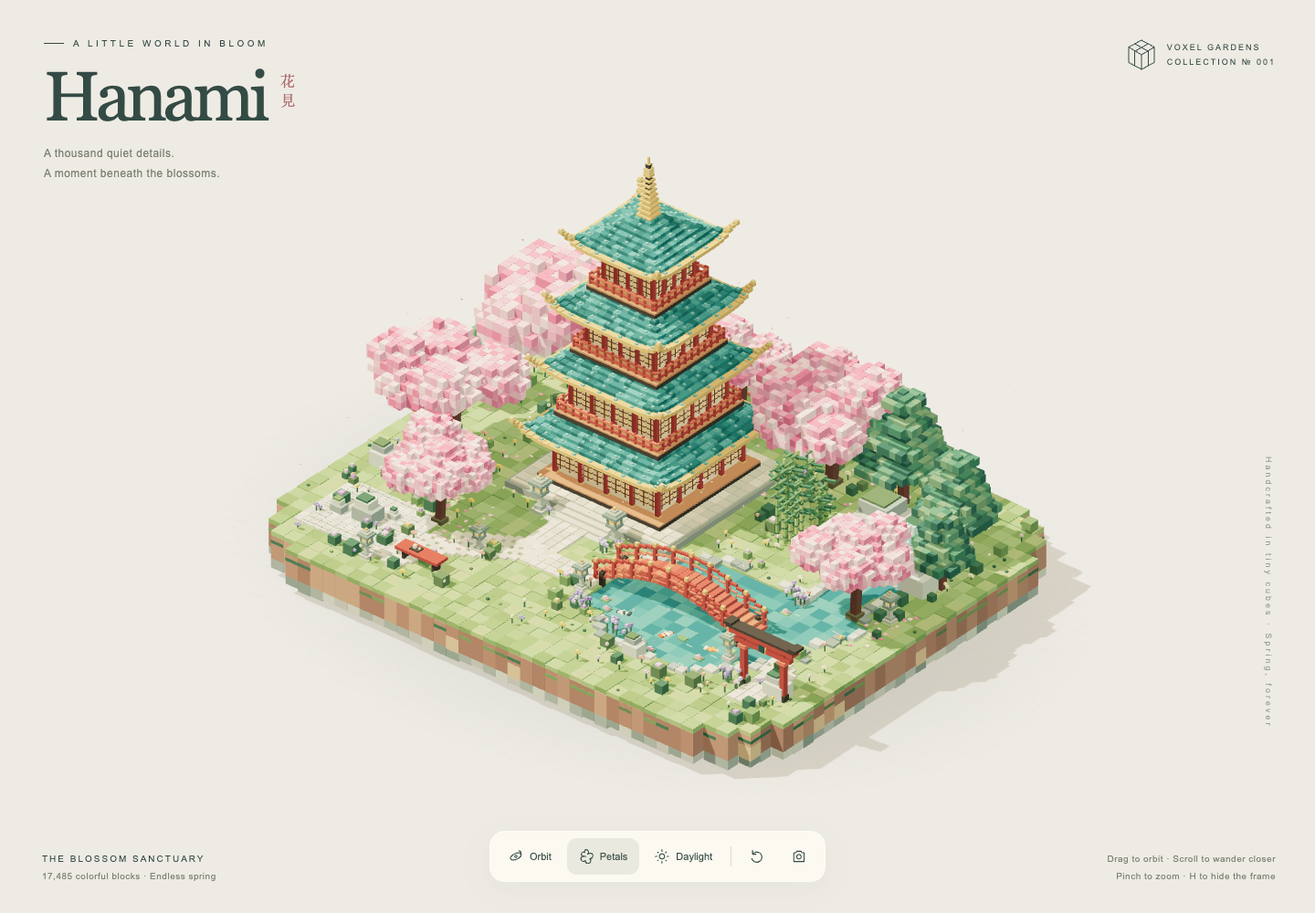
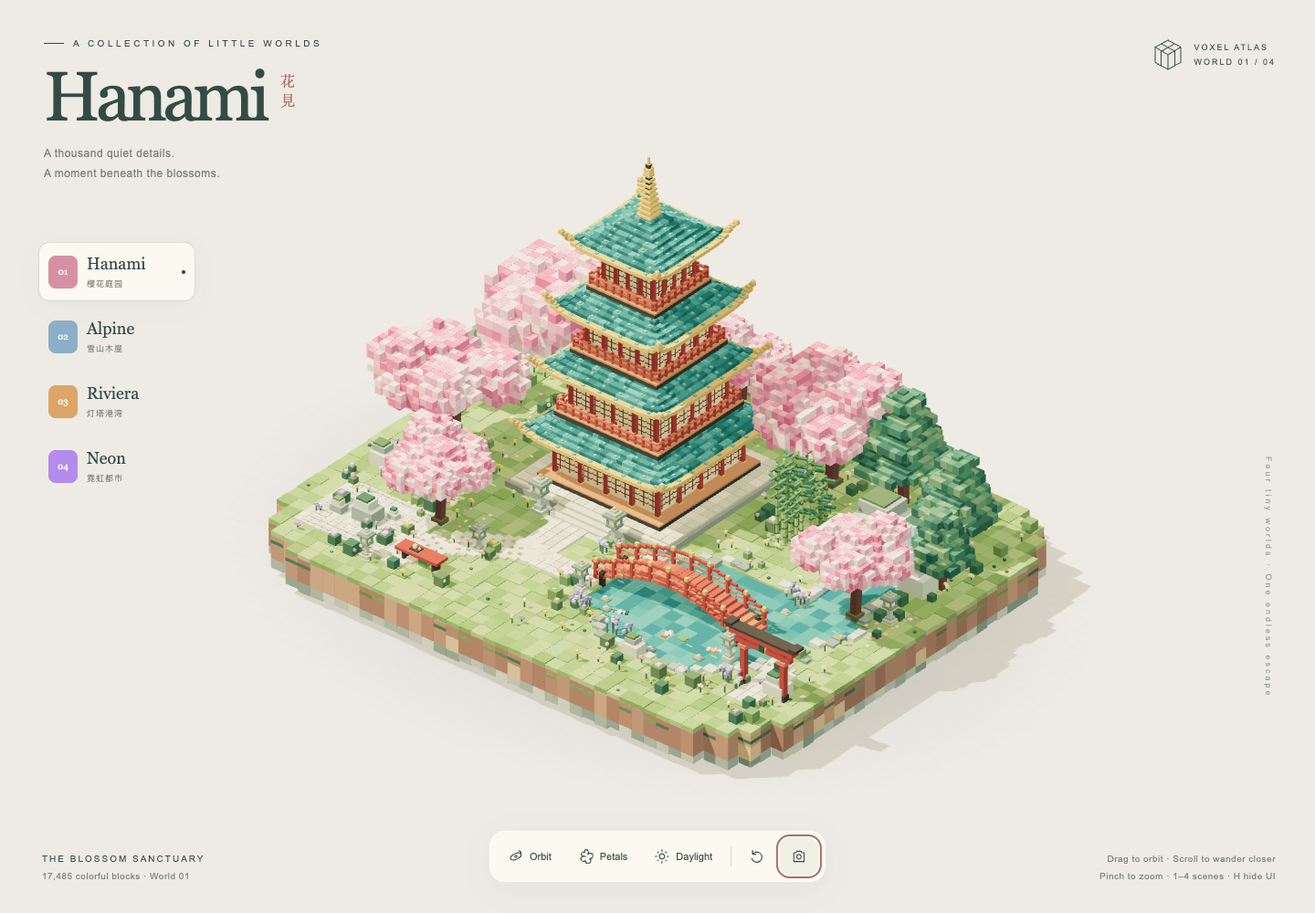
Add Alpine, Riviera and Neon worlds with scene switching

diff --git a/index.html b/index.html
@@ -4,7 +4,7 @@
 <meta charset="utf-8">
 <meta name="viewport" content="width=device-width,initial-scale=1">
 <meta name="theme-color" content="#eee7df">
-<title>Hanami — a little world in bloom</title>
+<title>Hanami — Voxel Atlas</title>
 <style>
 :root{color-scheme:light;--ink:#344b45;--muted:#7b8274;--line:rgba(67,80,67,.18);--glass:rgba(255,253,244,.78)}
 *{box-sizing:border-box}body{margin:0;overflow:hidden;background:#eee7df;color:var(--ink);font-family:Arial,Helvetica,sans-serif;transition:color .7s}canvas{display:block;touch-action:none;outline:none;cursor:grab}canvas:active{cursor:grabbing}canvas:focus-visible{outline:2px solid #a56363;outline-offset:-5px}
@@ -13,14 +13,19 @@ footer{position:absolute;left:46px;bottom:31px;font-size:10px;line-height:1.9;le
 @media(max-width:850px){header{top:28px;left:25px}h1{font-size:58px}.edition{right:25px;top:29px}.tag{right:23px}footer{left:25px;bottom:23px}.help{right:25px;bottom:23px}.toolbar{bottom:80px}header p{font-size:11px}}
 @media(max-width:520px){h1{font-size:51px;margin-top:15px}.edition{font-size:8px;letter-spacing:1px}.edition svg{display:none}.eyebrow{font-size:8px;letter-spacing:2.5px}.tag{display:none}header p{max-width:170px;font-size:10px}.toolbar{bottom:74px;gap:0;padding:5px}button{padding:12px 10px;gap:5px;font-size:10px}button svg{width:15px}.help{font-size:9px}.help .desktop{display:none}footer{font-size:9px}footer b{font-size:9px}.toast{bottom:134px;white-space:nowrap}}
 @media(prefers-reduced-motion:reduce){*{transition:none!important}}
+
+.scene-selector{position:absolute;top:265px;left:42px;width:172px;display:flex;flex-direction:column;gap:6px;pointer-events:auto}.scene-button{padding:12px 10px;border:1px solid transparent;text-align:left;gap:10px;border-radius:12px}.scene-button[aria-pressed=true]{background:var(--glass);border-color:var(--line);box-shadow:0 6px 24px #31433408}.scene-swatch{display:grid;place-items:center;width:32px;height:36px;border-radius:8px;background:var(--swatch);color:#fff;font:10px Georgia,serif;flex-shrink:0}.scene-button strong{font:18px Georgia,serif;display:block;font-weight:400}.scene-button small{display:block;font-size:9px;letter-spacing:1px;margin-top:5px;color:var(--muted)}.scene-dot{width:4px;height:4px;background:currentColor;border-radius:50%;margin-left:auto;opacity:0}.scene-button[aria-pressed=true] .scene-dot{opacity:1}
+@media(max-width:1100px){.edition{display:none}.scene-selector{top:28px;right:25px;left:auto;transform:none;width:auto;flex-direction:row;gap:5px}.scene-button{padding:9px 11px;background:var(--glass)}.scene-button strong{font-size:15px}.scene-button small{font-size:8px}.scene-swatch{width:23px;height:29px}.scene-dot{display:none}}
+@media(max-width:700px){.scene-selector{top:181px;left:18px;right:18px;}.scene-button{padding:9px 6px}.scene-button strong{font-size:15px}.scene-swatch{display:none}}
+@media(max-width:520px){.scene-selector{top:181px;width:calc(100% - 36px);gap:5px;justify-content:center}.scene-button{flex:1;padding:9px 5px;gap:4px;justify-content:center;min-width:0}.scene-swatch{display:none}.scene-button strong{font-size:15px}.scene-button small{letter-spacing:0;font-size:9px}.scene-button[aria-pressed=true]{box-shadow:inset 0 -2px #a36e83}h1{font-size:49px}}
 </style>
 </head>
 <body>
 <div class="loading" id="loading"><p>A little world is blooming.</p><small>Planting the last cherry tree</small></div>
 <div class="overlay">
-<header><div class="eyebrow">A little world in bloom</div><h1>Hanami<span>花見</span></h1><p>A thousand quiet details.<br>A moment beneath the blossoms.</p></header>
-<div class="edition"><svg viewBox="0 0 32 36" fill="none" stroke="currentColor" stroke-width="1"><path d="M16 1 31 9v18L16 35 1 27V9Z M1 9l15 9 15-9M16 18v17 M8 5l16 9v17M24 5 8 14v17"/></svg><div>Voxel gardens<br>Collection № 001</div></div>
-<div class="tag">Handcrafted in tiny cubes · Spring, forever</div>
+<header><div class="eyebrow">A collection of little worlds</div><h1>Hanami<span>花見</span></h1><p>A thousand quiet details.<br>A moment beneath the blossoms.</p></header>
+<div class="edition"><svg viewBox="0 0 32 36" fill="none" stroke="currentColor" stroke-width="1"><path d="M16 1 31 9v18L16 35 1 27V9Z M1 9l15 9 15-9M16 18v17 M8 5l16 9v17M24 5 8 14v17"/></svg><div>Voxel atlas<br>World 01 / 04</div></div>
+<nav class="scene-selector" id="sceneSelector" aria-label="选择场景 / Choose a scene"></nav><div class="tag">Four tiny worlds · One endless escape</div>
 <div class="toolbar" role="toolbar" aria-label="Garden controls">
 <button id="orbit" aria-pressed="false" title="Slowly orbit the garden (O)"><svg viewBox="0 0 20 20"><ellipse cx="10" cy="10" rx="8" ry="4" transform="rotate(-25 10 10)"/><path d="m14 2 3 2-1 3"/><circle cx="10" cy="10" r="1.5"/></svg><span>Orbit</span></button>
 <button id="petals" aria-pressed="true" title="Toggle drifting petals and water animation (P)"><svg viewBox="0 0 20 20"><path d="M10 10C-1 11 4 1 8 5 6-3 17 2 12 7c8-5 10 6 3 6 5 6-6 10-6 3-6 4-9-6-3-6Z"/></svg><span>Petals</span></button>
@@ -30,7 +35,7 @@ footer{position:absolute;left:46px;bottom:31px;font-size:10px;line-height:1.9;le
 <button id="capture" title="Save a PNG of the garden" aria-label="Save garden image"><svg viewBox="0 0 20 20"><path d="M3 5h3l1-2h6l1 2h3v12H3Z"/><circle cx="10" cy="10.5" r="3"/></svg></button>
 </div>
 <footer><b>THE BLOSSOM SANCTUARY</b><br><span id="voxelCount">A living voxel diorama</span></footer>
-<div class="help"><span class="desktop">Drag to orbit · Scroll to wander closer<br></span><span class="mobile">Pinch to zoom</span><span class="desktop"> · H to hide the frame</span></div>
+<div class="help"><span class="desktop">Drag to orbit · Scroll to wander closer<br></span><span class="mobile">Pinch to zoom</span><span class="desktop"> · 1–4 scenes · H hide UI</span></div>
 </div>
 <div id="toast" class="toast" role="status" aria-live="polite"></div>
 <!-- Three.js r160 — Copyright 2010-2023 Three.js Authors.
@@ -73,6 +78,7 @@ const pick=a=>a[Math.floor(rnd()*a.length)];
 const clamp=(v,a,b)=>Math.max(a,Math.min(b,v));
 const C={grass:['#87a967','#91af70','#9ab878','#7f9f60','#a4b979'],moss:['#4e755b','#66815a','#75975f'],soil:['#ac8270','#b28a76','#c2987e','#a07a69'],rock:['#9eaaa0','#b8bcb0','#89998f','#cad0bc'],pink:['#f6a5bc','#ffc7ce','#ee8faa','#ffd8d6','#e87f9e','#f9b3c4'],pine:['#426f61','#4f846a','#629375','#779c76'],roof:['#3d8380','#4b9690','#5aa7a0','#367573'],gold:'#d9b36d',red:'#af5149',redLight:'#d57561',wood:'#795449',dark:'#4c4741',cream:'#f4dcb2'};
 const scene=new THREE.Scene();
+const gardenGroup=new THREE.Group();gardenGroup.name="hanami";scene.add(gardenGroup);
 scene.background=new THREE.Color('#eee7df');
 const renderer=new THREE.WebGLRenderer({antialias:true,preserveDrawingBuffer:true,powerPreference:'high-performance'});
 renderer.setPixelRatio(Math.min(devicePixelRatio,2));renderer.setSize(innerWidth,innerHeight);
@@ -215,11 +221,12 @@ for(let i=0;i<25;i++){let x=2+rnd()*12,z=2+rnd()*9;if(!pond(x,z)||Math.abs(z-6)<
 for(let x of [-10,-7.6]){box(x,.55,12.5,.2,.9,.65,C.dark)}box(-8.8,1.05,12.5,3.4,.2,1.1,C.red);box(-9.2,1.19,12.5,.7,.08,.55,C.dark);v(-9.3,1.34,12.5,.22,C.cream);v(-8.95,1.3,12.5,.13,C.cream);
 // Static garden is rendered with a few instanced draw calls.
 const materials={solid:new THREE.MeshStandardMaterial({roughness:.91,metalness:0}),glow:new THREE.MeshStandardMaterial({roughness:.8,emissive:'#ffb64a',emissiveIntensity:.13}),water:new THREE.MeshStandardMaterial({roughness:.28,metalness:.18})};
+materials.glow.emissive.set('#ffffff');materials.glow.onBeforeCompile=shader=>{shader.fragmentShader=shader.fragmentShader.replace('#include <emissivemap_fragment>','#include <emissivemap_fragment>\n#if defined(USE_COLOR) || defined(USE_INSTANCING_COLOR)\ntotalEmissiveRadiance *= vColor;\n#endif');};
 let voxelCount=0;
 for(const [kind,data] of Object.entries(batches)){
  const mesh=new THREE.InstancedMesh(cube,materials[kind],data.length);voxelCount+=data.length;
  data.forEach((b,i)=>{dummy.position.set(b[0],b[1],b[2]);dummy.scale.set(b[3],b[4],b[5]);dummy.rotation.set(0,b[7],0);dummy.updateMatrix();mesh.setMatrixAt(i,dummy.matrix);mesh.setColorAt(i,new THREE.Color(b[6]));});
- mesh.castShadow=kind==='solid';mesh.receiveShadow=true;mesh.instanceMatrix.needsUpdate=true;mesh.instanceColor.needsUpdate=true;mesh.computeBoundingSphere();scene.add(mesh);
+ mesh.castShadow=kind==='solid';mesh.receiveShadow=true;mesh.instanceMatrix.needsUpdate=true;mesh.instanceColor.needsUpdate=true;mesh.computeBoundingSphere();gardenGroup.add(mesh);
 }
 // Large matte cyclorama and a soft contact shadow beneath the floating cutaway.
 const ground=new THREE.Mesh(new THREE.PlaneGeometry(2000,2000),new THREE.MeshStandardMaterial({color:'#eee7df',roughness:1}));ground.rotation.x=-Math.PI/2;ground.position.y=-3.15;ground.receiveShadow=true;scene.add(ground);
@@ -227,17 +234,17 @@ const shadowCanvas=document.createElement('canvas');shadowCanvas.width=shadowCan
 const contact=new THREE.Mesh(new THREE.PlaneGeometry(59,47),new THREE.MeshBasicMaterial({map:new THREE.CanvasTexture(shadowCanvas),transparent:true,depthWrite:false}));contact.rotation.x=-Math.PI/2;contact.position.y=-3.13;scene.add(contact);
 // Koi are little articulated voxel mosaics, swimming in looping paths under the bridge.
 const koi=[];
-function fish(cx,cz,phase,colors){const g=new THREE.Group();function part(x,z,w,d,c){const m=new THREE.Mesh(cube,new THREE.MeshStandardMaterial({color:c,roughness:.6}));m.position.set(x,0,z);m.scale.set(w,.09,d);g.add(m)}part(0,0,.27,.7,colors[0]);part(0,-.32,.21,.21,colors[1]);part(0,.43,.36,.2,colors[1]);part(.19,0,.17,.16,colors[0]);part(-.19,0,.17,.16,colors[0]);part(0,.09,.28,.2,colors[1]);g.position.y=.16;scene.add(g);koi.push({g,cx,cz,phase})}
+function fish(cx,cz,phase,colors){const g=new THREE.Group();function part(x,z,w,d,c){const m=new THREE.Mesh(cube,new THREE.MeshStandardMaterial({color:c,roughness:.6}));m.position.set(x,0,z);m.scale.set(w,.09,d);g.add(m)}part(0,0,.27,.7,colors[0]);part(0,-.32,.21,.21,colors[1]);part(0,.43,.36,.2,colors[1]);part(.19,0,.17,.16,colors[0]);part(-.19,0,.17,.16,colors[0]);part(0,.09,.28,.2,colors[1]);g.position.y=.16;gardenGroup.add(g);koi.push({g,cx,cz,phase})}
 fish(7,8.8,0,['#fff2cf','#d96c43']);fish(9,3.3,2,['#f2c763','#f7ebc7']);fish(5,9.3,4,['#efebd4','#4b615e']);fish(11,7.9,1,['#ee975c','#fff0d0']);
 // Drifting petal cubes and glints in the falling water.
 const petalCount=165,petalMesh=new THREE.InstancedMesh(cube,new THREE.MeshStandardMaterial({color:'#ffc1ce',roughness:1}),petalCount);petalMesh.instanceMatrix.setUsage(THREE.DynamicDrawUsage);petalMesh.frustumCulled=false;scene.add(petalMesh);
 const petals=Array.from({length:petalCount},()=>({x:(rnd()-.5)*36,y:1+rnd()*13,z:(rnd()-.5)*28,s:.06+rnd()*.1,speed:.4+rnd()*.5,phase:rnd()*Math.PI*2}));
 const drops=new THREE.InstancedMesh(cube,new THREE.MeshBasicMaterial({color:'#daf6e6'}),24);drops.frustumCulled=false;scene.add(drops);
-const lampLights=lanterns.slice(0,6).map(([x,y,z])=>{const l=new THREE.PointLight('#ffbe6b',0,5,2);l.position.set(x,y,z);scene.add(l);return l});
+const lampLights=lanterns.slice(0,6).map(([x,y,z])=>{const l=new THREE.PointLight('#ffbe6b',0,5,2);l.position.set(x,y,z);gardenGroup.add(l);return l});
 // Camera controls: mouse, touch / pinch, and keyboard. Orthographic projection keeps the miniature look.
 let az=.69,el=.57,zoom=1,auto=false,motion=!matchMedia('(prefers-reduced-motion: reduce)').matches;
 let targetAz=az,targetEl=el,targetZoom=zoom;const center=new THREE.Vector3(0,5.6,0);
-function resize(){const a=innerWidth/innerHeight;let view=Math.max(57,57/a);camera.left=-view*a/2;camera.right=view*a/2;camera.top=view/2;camera.bottom=-view/2;camera.updateProjectionMatrix();renderer.setSize(innerWidth,innerHeight)}
+function resize(){const a=innerWidth/innerHeight;let view=Math.max(innerWidth<700?84:57,57/a);camera.left=-view*a/2;camera.right=view*a/2;camera.top=view/2;camera.bottom=-view/2;camera.updateProjectionMatrix();renderer.setSize(innerWidth,innerHeight)}
 addEventListener('resize',resize);resize();
 const pointers=new Map();let prevDist=0;
 renderer.domElement.addEventListener('pointerdown',e=>{renderer.domElement.setPointerCapture(e.pointerId);pointers.set(e.pointerId,{x:e.clientX,y:e.clientY});auto=false;document.getElementById('orbit').setAttribute('aria-pressed','false');if(pointers.size===2){let p=[...pointers.values()];prevDist=Math.hypot(p[0].x-p[1].x,p[0].y-p[1].y)}});
@@ -247,20 +254,116 @@ renderer.domElement.addEventListener('wheel',e=>{e.preventDefault();targetZoom=c
 function toast(t){const el=document.getElementById('toast');el.textContent=t;el.classList.add('show');clearTimeout(toast.timer);toast.timer=setTimeout(()=>el.classList.remove('show'),2400)}
 const orbitBtn=document.getElementById('orbit'),petalBtn=document.getElementById('petals');petalBtn.setAttribute('aria-pressed',String(motion));
 orbitBtn.onclick=()=>{auto=!auto;orbitBtn.setAttribute('aria-pressed',String(auto))};
-petalBtn.onclick=()=>{motion=!motion;petalBtn.setAttribute('aria-pressed',String(motion));petalMesh.visible=motion;drops.visible=motion};petalMesh.visible=motion;drops.visible=motion;
-document.getElementById('reset').onclick=()=>{targetAz=.69;targetEl=.57;targetZoom=1;auto=false;orbitBtn.setAttribute('aria-pressed','false');toast('Back to the garden view')};
+petalBtn.onclick=()=>{motion=!motion;petalBtn.setAttribute('aria-pressed',String(motion));updateEffects()};petalMesh.visible=motion;drops.visible=motion;
+document.getElementById('reset').onclick=()=>{targetAz=.69;targetEl=.57;targetZoom=1;auto=false;orbitBtn.setAttribute('aria-pressed','false');toast('View reset')};
 let lightMode=0;
 const lighting=[{name:'Daylight',bg:'#eee7df',sky:'#fff2d9',floor:'#889d9b',sun:'#fff0d5',sunI:3.1,hemi:2.15,exposure:1.23,emission:.13,pos:[-25,50,25]}, {name:'Golden hour',bg:'#e8c7b5',sky:'#ffd7ad',floor:'#8c829c',sun:'#ffb474',sunI:3.4,hemi:1.55,exposure:1.2,emission:.32,pos:[-36,23,18]}, {name:'Moonlight',bg:'#202e41',sky:'#9bbddf',floor:'#485c80',sun:'#a9c9ff',sunI:1.4,hemi:.9,exposure:1.05,emission:1.7,pos:[-20,40,-8]}];
-document.getElementById('light').onclick=()=>{lightMode=(lightMode+1)%3;const l=lighting[lightMode];scene.background.set(l.bg);ground.material.color.set(l.bg);hemi.color.set(l.sky);hemi.groundColor.set(l.floor);hemi.intensity=l.hemi;sun.color.set(l.sun);sun.intensity=l.sunI;sun.position.set(...l.pos);renderer.toneMappingExposure=l.exposure;materials.glow.emissiveIntensity=l.emission;lampLights.forEach(p=>p.intensity=lightMode===2?6:0);document.body.classList.toggle('night',lightMode===2);document.getElementById('lightLabel').textContent=l.name;renderer.shadowMap.needsUpdate=true;toast(l.name+' in the sanctuary')};
-document.getElementById('capture').onclick=()=>{renderer.render(scene,camera);renderer.domElement.toBlob(blob=>{if(!blob){toast('Could not save this view');return}const a=document.createElement('a'),url=URL.createObjectURL(blob);a.download='hanami-garden-'+['daylight','golden-hour','moonlight'][lightMode]+'.png';a.href=url;a.click();setTimeout(()=>URL.revokeObjectURL(url),1500);toast('A little piece of spring, saved')},'image/png')};
+function applyLighting(){const l=lighting[lightMode];scene.background.set(l.bg);ground.material.color.set(l.bg);hemi.color.set(l.sky);hemi.groundColor.set(l.floor);hemi.intensity=l.hemi;sun.color.set(l.sun);sun.intensity=l.sunI;sun.position.set(...l.pos);renderer.toneMappingExposure=l.exposure;materials.glow.emissiveIntensity=l.emission;lampLights.forEach(p=>p.intensity=lightMode===2?6:0);document.body.classList.toggle('night',lightMode===2);document.getElementById('lightLabel').textContent=l.name;renderer.shadowMap.needsUpdate=true;}
+document.getElementById('light').onclick=()=>{lightMode=(lightMode+1)%3;applyLighting();toast(lighting[lightMode].name)};
+document.getElementById('capture').onclick=()=>{renderer.render(scene,camera);renderer.domElement.toBlob(blob=>{if(!blob){toast('Could not save this view');return}const a=document.createElement('a'),url=URL.createObjectURL(blob);a.download=worlds[activeWorld].id+'-voxel-'+['daylight','golden-hour','moonlight'][lightMode]+'.png';a.href=url;a.click();setTimeout(()=>URL.revokeObjectURL(url),1500);toast('Scene saved as PNG')},'image/png')};
 addEventListener('keydown',e=>{if(e.target instanceof HTMLElement&&e.target.closest('button')&&[' ','Enter'].includes(e.key))return;const key=e.key.toLowerCase();if(['arrowleft','arrowright','arrowup','arrowdown','+','=','-'].includes(key)){e.preventDefault();if(key==='arrowleft')targetAz+=.12;if(key==='arrowright')targetAz-=.12;if(key==='arrowup')targetEl=clamp(targetEl+.08,.22,1.22);if(key==='arrowdown')targetEl=clamp(targetEl-.08,.22,1.22);if(key==='+'||key==='=')targetZoom=clamp(targetZoom*1.1,.6,2.5);if(key==='-')targetZoom=clamp(targetZoom/1.1,.6,2.5)}if(key==='h')document.body.classList.toggle('hidden');if(key==='o')orbitBtn.click();if(key==='p')petalBtn.click();if(key==='l')document.getElementById('light').click();if(key==='r')document.getElementById('reset').click()});
 document.getElementById('voxelCount').textContent=voxelCount.toLocaleString()+' colorful blocks · Endless spring';
+// Additional worlds share the cube geometry and renderer; generated once, cached on demand.
+const worlds=[
+ {id:'hanami',name:'Hanami',zh:'樱花庭园',sub:'花見',desc:'A thousand quiet details.<br>A moment beneath the blossoms.',label:'THE BLOSSOM SANCTUARY',accent:'#d690a5',particle:'#ffc1ce',effect:'Petals',mode:0},
+ {id:'alpine',name:'Alpine',zh:'雪山木屋',sub:'雪境',desc:'Warm windows. Silent mountains.<br>A tiny winter worth getting lost in.',label:'THE SNOWBOUND HIDEAWAY',accent:'#8bafc6',particle:'#ffffff',effect:'Snow',mode:0},
+ {id:'riviera',name:'Riviera',zh:'灯塔港湾',sub:'海岸',desc:'Salt in the air. Sun on the rooftops.<br>A postcard from the quieter coast.',label:'THE SUNLIT HARBOUR',accent:'#dda567',particle:'#fff0be',effect:'Breeze',mode:0},
+ {id:'neon',name:'Neon',zh:'霓虹都市',sub:'未来',desc:'Rain falls. A city dreams in color.<br>Somewhere just beyond tomorrow.',label:'THE MIDNIGHT DISTRICT',accent:'#b38bea',particle:'#86d9ff',effect:'Rain',mode:2}
+];
+let activeWorld=0;
+const worldCache=new Map([[0,{group:gardenGroup,count:voxelCount}]]);
+function bakeWorld(group){let count=0;for(const [kind,data] of Object.entries(batches)){if(!data.length)continue;const mesh=new THREE.InstancedMesh(cube,materials[kind],data.length);count+=data.length;data.forEach((b,i)=>{dummy.position.set(b[0],b[1],b[2]);dummy.scale.set(b[3],b[4],b[5]);dummy.rotation.set(0,b[7],0);dummy.updateMatrix();mesh.setMatrixAt(i,dummy.matrix);mesh.setColorAt(i,new THREE.Color(b[6]));});mesh.castShadow=kind==='solid';mesh.receiveShadow=true;mesh.instanceMatrix.needsUpdate=true;mesh.instanceColor.needsUpdate=true;mesh.computeBoundingSphere();group.add(mesh)}return count}
+function terrain(surface,side,height=()=>0){for(let x=-21;x<=21;x++)for(let z=-17;z<=17;z++){if(!island(x,z))continue;let h=height(x,z);box(x,(h-2.5)/2,z,.99,h+2.5,.99,pick(side));box(x,h+.08,z,.99,.2,.99,pick(surface));}}
+function snowyPine(x,z,h){box(x,h/2,z,.45,h,.45,'#6d6564');for(let k=0;k<4;k++){let y=h*.35+k*h*.18,r=h*.32*(1-k*.21);for(let a=-r;a<=r;a+=.5)for(let b=-r;b<=r;b+=.5){if(Math.abs(a)+Math.abs(b)>r*1.45)continue;let yy=y+Math.max(0,r-Math.max(Math.abs(a),Math.abs(b)))*.5;v(x+a,yy,z+b,.54,pick(['#426d74','#53848b','#699496']));box(x+a,yy+.32,z+b,.55,.16,.55,pick(['#edf5f4','#d1e4e9','#ffffff']));}}}
+function chalet(x,z,w,d,h){
+ box(x,h/2,z,w,h,d,'#815e50');
+ for(let y=.4;y<h;y+=.44){box(x,y,z+d/2+.05,w+.25,.14,.18,'#ae8870');box(x+w/2+.05,y,z,.18,.14,d+.25,'#b69175')}
+ for(let side of [-1,1])for(let i=-w/2+1;i<w/2;i+=1.9){box(x+i,h*.57,z+side*(d/2+.11),1.1,1.35,.12,'#ffcd7c','glow');box(x+i,h*.57,z+side*(d/2+.2),.08,1.45,.1,'#5e5554');box(x+i,h*.57,z+side*(d/2+.2),1.2,.08,.1,'#5e5554')}
+ box(x,h*.24,z+d/2+.2,1.05,h*.48,.3,'#514d50');v(x+.3,.9,z+d/2+.4,.1,'#e7bd65');
+ for(let a=-w/2-.7;a<=w/2+.7;a+=.42){let yy=h+(w/2+.7-Math.abs(a))*.85;for(let b=-d/2-.7;b<=d/2+.7;b+=.42){box(x+a,yy,z+b,.44,.26,.44,'#596d77');box(x+a,yy+.21,z+b,.44,.2,.44,pick(['#e7f1f1','#f6f9f6','#cadfe8']))}}
+ box(x-w*.24,h+2,z-d*.17,.8,3,.8,'#ac8778');box(x-w*.24,h+3.55,z-d*.17,1,.2,1,'#e7ece8');
+ for(let s of [-1,1])box(x+s*(w/2-.25),.7,z+d/2+1,.22,1.4,.22,'#8e7162');box(x,.35,z+d/2+1,w+.6,.3,2,'#b59d86');
+}
+function alpine(){
+ terrain(['#e1ecef','#edf4f2','#d6e5eb','#f5f7f2'],['#8596a8','#9eafbb','#b3c2cc']);
+ // Layered mountain peaks, capped with snow and streaked with blue rock.
+ for(const [cx,cz,r,h] of [[-13,-10,6.5,14],[-2,-12,7,19],[10,-11,6,13]])for(let x=-r;x<=r;x+=.8)for(let z=-r;z<=r;z+=.8){if(!island(cx+x,cz+z))continue;let q=Math.max(Math.abs(x),Math.abs(z));if(q>r)continue;let ht=Math.max(.2,h*(1-q/r)+(rnd()-.5)*1.1);box(cx+x,ht/2,cz+z,.82,ht,.82,pick(['#8198af','#9eb2c3','#bdcbd5','#728ba3']));box(cx+x,ht+.12,cz+z,.84,.35,.84,pick(['#f5f8f5','#dfedf0','#d0e2eb']))}
+ // Frozen lake with alternating blue ice and broken white shore.
+ for(let x=3;x<18;x+=.7)for(let z=3;z<13;z+=.7){if(((x-10)/7.3)**2+((z-8)/5.1)**2>1)continue;box(x,.22,z,.7,.12,.7,pick(['#86bdcc','#a8d5df','#75afc4','#b4dfe4']),'water');if(rnd()<.1)box(x,.3,z,.64,.025,.035,'#e3f3f3')}
+ chalet(-6,1,7.4,6,5.1);chalet(8,-3,5,4,3.8);
+ for(let [x,z,h] of [[-17,-1,9],[-14,5,7],[-17,11,6],[-2,9,5],[17,-5,7],[18,1,6],[1,-3,6],[-10,12,4]])snowyPine(x,z,h);
+ for(let i=0;i<22;i++){let z=5+i*.43;box(-6+Math.sin(i*.17)*.8,.24,z,.95,.1,.32,'#bbc8c9')}
+ // Timber footbridge across the frozen inlet, fence, supplies and sled.
+ for(let i=0;i<15;i++)box(i*.5+1,.75,7,.47,.19,2,'#b08e70');for(let x=1;x<8;x+=1.1)for(let z of [6,8]){box(x,1.2,z,.15,1.1,.15,'#8a6b5c');box(x,1.7,z,1.2,.13,.14,'#ac866b')}
+ for(let z=-4;z<12;z+=1.4){box(-19,1,z,.2,1.5,.2,'#9c8375');box(-19,1.4,z+.6,.15,.13,1.5,'#b49c85')}
+ for(let i=0;i<5;i++)box(-11,.4+i*.24,1,1.3,.22,.7,'#a58a74');
+ for(let x of [-8.6,-7.2])box(x,.4,8.5,.15,.16,2,'#733e3b');for(let z=7.9;z<9.2;z+=.3)box(-7.9,.7,z,1.7,.2,.22,'#c26356');
+ // Snowman: cube snowballs, scarf, carrot, coal and tall hat.
+ v(-1.3,.85,5,1.2,'#f8f6e9');v(-1.3,1.8,5,.85,'#f7f5e8');box(-1.3,1.45,5,.98,.18,.98,'#d57467');box(-1,1.1,5.64,.2,.6,.14,'#d57467');box(-1.3,2.28,5,1.05,.15,1.05,'#38475c');v(-1.3,2.59,5,.63,'#38475c');for(let x of [-1.48,-1.12])v(x,1.94,5.44,.1,'#3b4c60');box(-1.3,1.78,5.57,.12,.12,.35,'#e39a52');
+ for(let i=0;i<45;i++){let x=-19+rnd()*38,z=-14+rnd()*28;if(island(x,z)&&z>4)v(x,.29,z,.18,'#c5d8e2')}
+}
+function palm(x,z,h){for(let i=0;i<h/.45;i++)box(x+Math.sin(i*.1)*.5,.3+i*.45,z,.4,.46,.4,pick(['#b89870','#c5a57b','#94785e']));let cx=x+Math.sin(h/.45*.1)*.5;for(let k=0;k<7;k++){let a=k*Math.PI*2/7;for(let j=0;j<8;j++){let r=j*.43,y=h+.7+Math.sin(j/7*Math.PI)*.7-j*.15;box(cx+Math.cos(a)*r,y,z+Math.sin(a)*r,.65,.18,.7,pick(['#5b9e76','#78b083','#42876b']))}}for(let i=0;i<3;i++)v(cx+(i-1)*.35,h,z,.4,'#a87c52')}
+function riviera(){
+ terrain(['#cfb98b','#ddc99e','#e9d6ad'],['#b5a588','#c7b99a','#d7c9a7']);
+ for(let x=-21;x<=21;x++)for(let z=0;z<=17;z++){if(!island(x,z))continue;let shore=2+Math.sin(x*.17)*2;if(z>shore){box(x,.22,z,.99,.3,.99,pick(['#48a9b7','#60bdc3','#77cccb','#399aaa']),'water');if(rnd()<.16)box(x,.39,z,.6,.03,.09,'#b9e5dc','water')}}
+ // Painted fishing village on the upper terrace.
+ for(const [x,z,w,h,c] of [[-11,-5,5,5,'#f1d5b3'],[-5,-8,5,7,'#f2e5c9'],[1,-6,5,4.5,'#eaa38b'],[-12,-11,4,6,'#efc578']]){
+ box(x,h/2+.3,z,w,h,4.5,c);box(x,h+.35,z,w+.3,.25,4.8,'#f7e7cc');
+ for(let xx=-w/2-.3;xx<=w/2+.3;xx+=.4)for(let zz=-2.6;zz<=2.6;zz+=.4)box(x+xx,h+.5+(2.6-Math.abs(zz))*.45,z+zz,.39,.22,.39,pick(['#c16b50','#d7865f','#d99669']));
+ for(let yy=1.4;yy<h;yy+=2)for(let xx=-w/2+1;xx<w/2;xx+=1.7){box(x+xx,yy,z+2.3,.75,1.1,.1,'#426f80');for(let s of [-1,1])box(x+xx+s*.48,yy,z+2.4,.22,1.2,.16,'#6ca7a6');box(x+xx,yy-.65,z+2.55,1.2,.18,.5,'#c7aa82');for(let k=0;k<4;k++)v(x+xx-.35+k*.23,yy-.45,z+2.6,.24,pick(['#d97fa1','#ecaaa9','#749b67']))}
+ box(x,.95,z+2.35,1,1.8,.15,'#638782');
+ }
+ // Lighthouse, alternating ivory and coral masonry bands with a glass lantern.
+ for(let y=0;y<15;y+=.5){let r=2.3-y*.045;for(let x=-r;x<=r;x+=.5)for(let z=-r;z<=r;z+=.5)if(x*x+z*z<r*r)box(10+x,y+.4,-6+z,.5,.5,.5,Math.floor(y/2.5)%2?'#d87864':'#f1e7ce')}
+ box(10,15.5,-6,4.8,.35,4.8,'#4c7c83');box(10,16.7,-6,2.8,2.1,2.8,'#ffe4a2','glow');for(let x of [-1.5,1.5])for(let z of [-1.5,1.5])box(10+x,16.7,-6+z,.16,2.5,.16,'#587d82');for(let i=0;i<5;i++)box(10,18+i*.3,-6,4.3-i*.7,.3,4.3-i*.7,'#477381');box(10,20.1,-6,.15,1.3,.15,'#d6b66e');
+ for(let a=0;a<24;a++){let t=a/24*Math.PI*2;box(10+Math.cos(t)*2.3,16,-6+Math.sin(t)*2.3,.13,.85,.13,'#648c8d')}
+ // Pier, bollards, sailboats and beach umbrellas.
+ for(let z=2;z<12;z+=.45)box(-3,.85,z,3,.2,.42,'#b79772');for(let z=2;z<12;z+=2)for(let x of [-4.4,-1.6]){box(x,.55,z,.25,1.6,.25,'#826e5c');v(x,1.4,z,.35,'#e9d8ae')}
+ function boat(x,z,c){for(let j=-3;j<=3;j++){let w=(3.5-Math.abs(j))*.45;box(x,.6,z+j*.45,w,.35,.43,c)}box(x,3.4,z,.09,5.5,.09,'#e6d4aa');for(let j=0;j<10;j++)box(x+.1+(10-j)*.11,1.5+j*.4,z,(10-j)*.22,.39,.09,j%3?'#fff2d4':'#e4b86b')}
+ boat(4,8,'#d78066');boat(-10,10,'#546d9e');boat(14,9,'#e5d9b4');
+ palm(-17,-3,6);palm(17,-2,6.7);palm(3,-12,5.5);
+ for(let [x,z,c] of [[-15,1,'#db856e'],[17,2,'#698eb2']]){box(x,1.3,z,.12,2.5,.12,'#b49371');for(let a=-1.6;a<=1.6;a+=.4)for(let b=-1.6;b<=1.6;b+=.4)box(x+a,2.6+(1.6-Math.max(Math.abs(a),Math.abs(b)))*.4,z+b,.4,.16,.4,(Math.round(a/.4)+Math.round(b/.4))%2?c:'#f7e7c8');box(x+.3,.36,z+1.9,.9,.22,1.8,'#f1dcbb')}
+ for(let i=0;i<70;i++){let x=-19+rnd()*38,z=-14+rnd()*13;if(island(x,z)&&rnd()<.6)v(x,.4,z,.35,pick(['#85a987','#c6b892','#c994b2']))}
+}
+function neon(){
+ terrain(['#354352','#3e4a5d','#485266'],['#273244','#3e465c','#536079']);
+ // Wet streets with pixel lane markings and light reflecting from the curbs.
+ box(0,.25,7,39,.18,6,'#253443','water');box(8,.25,-3,5,.18,23,'#253443','water');for(let x=-19;x<20;x+=2){box(x,.36,7,.95,.05,.1,'#d8c29c');box(x,.38,4.2,1.6,.04,.12,'#68c8df','glow')}
+ for(let z=4.5;z<9.5;z+=.6)box(6,.39,z,2.8,.06,.3,'#c3c7d0');
+ const buildings=[[-12,-7,7,6,13,'#516078'],[-3,-8,6,7,22,'#3d4a66'],[15,-9,6,6,16,'#695a7d'],[-13,0,6,4,7,'#735a72'],[0,0,5,4,10,'#4e6976'],[15,0,5,4,9,'#655774'],[-12,13,7,3,4,'#66586e'],[1,13,6,3,5,'#486472']];
+ for(let [x,z,w,d,h,c] of buildings){
+ box(x,h/2+.3,z,w,h,d,c);box(x,h+.4,z,w+.4,.35,d+.4,'#2b354c');
+ for(let yy=1.3;yy<h-.6;yy+=.85)for(let xx=-w/2+.6;xx<w/2;xx+=.8){box(x+xx,yy,z+d/2+.06,.42,.37,.08,pick(['#72cde0','#a8a6dc','#e5b07c','#44516a','#4b5570']),'glow');}
+ for(let yy=1.3;yy<h-.6;yy+=.85)for(let zz=-d/2+.6;zz<d/2;zz+=.8)box(x+w/2+.06,yy,z+zz,.08,.37,.42,pick(['#87bbd6','#b9a1d9','#e8c390','#414c64']),'glow');
+ for(let sx of [-1,1])box(x+sx*w/2,h/2+.4,z+d/2+.13,.12,h,.12,x<0?'#b47ce8':'#6bdbdf','glow');
+ box(x+.8,h+1,z,1.4,1.2,1.7,'#8b92a4');for(let i=0;i<5;i++)box(x+.8,h+1.65,z-.6+i*.3,1.1,.09,.1,'#414c62');box(x-1.4,h+1.7,z-1,.12,3,.12,'#9ea9b6');v(x-1.4,h+3.3,z-1,.25,'#ef83bc','glow');
+ if(h>12){box(x,h*.7,z+d/2+.35,w*.65,2.2,.4,'#222a44');for(let i=0;i<5;i++){box(x-w*.24+i*w*.12,h*.7,z+d/2+.6,.17,1.5,.1,'#ef8bd4','glow');box(x-w*.24+i*w*.12,h*.7+.3,z+d/2+.63,.4,.13,.1,'#7be4df','glow')}}
+ }
+ // Elevated skybridge between the two tallest towers.
+ box(5.9,11.5,-8,14,.55,2.3,'#536c86');box(5.9,12.4,-6.9,14,.08,.08,'#70d4df','glow');for(let x=0;x<13;x+=.7)box(x,11.95,-6.9,.08,1,.08,'#95a7bc');
+ // Rooftop landing pad, luminous ring constructed from squared pixels.
+ for(let x=-2.4;x<2.5;x+=.4)for(let z=-2.4;z<2.5;z+=.4){let r=Math.hypot(x,z);if(r>1.7&&r<2.3)box(-3+x,22.62,-8+z,.36,.1,.36,'#78d4d8','glow')}
+ box(-3,22.7,-8,1.5,.08,.18,'#efc2e5','glow');for(let x of [-3.65,-2.35])box(x,22.7,-8,.18,.08,1.5,'#efc2e5','glow');
+ // Noodle kiosk, striped canopy and hanging cube lanterns.
+ box(-8,1.4,12,3.4,2.6,2.5,'#7f5969');for(let i=0;i<10;i++)box(-9.8+i*.4,2.9,13.4,.38,.22,2,i%2?'#6dc8ce':'#dba2c2');for(let x of [-9,-8,-7])v(x,2.1,14,.4,'#ffc48b','glow');box(-8,1,13.4,3,.2,.6,'#b38c94');
+ // Small electric taxis with headlamps and taillights.
+ for(let [x,z,c] of [[-5,7,'#c6a86c'],[13,8,'#9a7bac'],[-15,6,'#5f9fad']]){box(x,.9,z,2.6,.65,1.3,c);box(x,1.45,z,1.3,.6,1.15,'#6e94ac');for(let sx of [-1,1])for(let sz of [-1,1])v(x+sx*.85,.65,z+sz*.62,.35,'#253144');for(let sz of [-.4,.4])box(x+1.32,.95,z+sz,.06,.22,.3,'#f2d8ae','glow')}
+ for(let x=-18;x<19;x+=6)for(let z of [3.4,10.6]){box(x,2.2,z,.13,4,.13,'#8c9eaf');box(x+.5,4.2,z,1.15,.16,.3,'#94dce4','glow');box(x,.4,z,.6,.4,.6,'#687281')}
+ for(let i=0;i<60;i++){let x=-19+rnd()*38,z=5+rnd()*4;box(x,.37,z,.08,.03,.5+rnd(),pick(['#736b9f','#528c9d','#ab7396']),'water')}
+}
+function getWorld(index){if(worldCache.has(index))return worldCache.get(index);seed=SEED+index*1117;for(const key of Object.keys(batches))batches[key]=[];[null,alpine,riviera,neon][index]();const group=new THREE.Group();group.name=worlds[index].id;const count=bakeWorld(group);group.visible=false;scene.add(group);const record={group,count};worldCache.set(index,record);return record}
+function updateEffects(){petalMesh.visible=motion;drops.visible=motion&&activeWorld===0;petalMesh.material.color.set(worlds[activeWorld].particle);petalBtn.querySelector('span').textContent=worlds[activeWorld].effect;petalBtn.title='Toggle scene animation (P)'}
+function switchWorld(index){if(index===activeWorld)return;const next=getWorld(index);worldCache.get(activeWorld).group.visible=false;next.group.visible=true;activeWorld=index;voxelCount=next.count;const w=worlds[index];document.querySelector('h1').innerHTML=w.name+'<span>'+w.sub+'</span>';document.querySelector('header p').innerHTML=w.desc;document.querySelector('footer b').textContent=w.label;document.getElementById('voxelCount').textContent=voxelCount.toLocaleString()+' colorful blocks · World 0'+(index+1);document.querySelector('.edition div').innerHTML='Voxel atlas<br>World 0'+(index+1)+' / 04';document.querySelectorAll('.scene-button').forEach((b,i)=>b.setAttribute('aria-pressed',String(i===index)));document.title=w.name+' — Voxel Atlas';targetAz=.69;targetEl=.57;targetZoom=1;auto=false;orbitBtn.setAttribute('aria-pressed','false');updateEffects();lightMode=w.mode;applyLighting();renderer.shadowMap.needsUpdate=true;history.replaceState(null,'','#'+w.id);toast(w.zh+' · '+w.name)}
+const selector=document.getElementById('sceneSelector');worlds.forEach((w,i)=>{const b=document.createElement('button');b.className='scene-button';b.setAttribute('aria-pressed',String(i===0));b.setAttribute('aria-label',w.zh+' '+w.name);b.innerHTML='<span class="scene-swatch" style="--swatch:'+w.accent+'">0'+(i+1)+'</span><span><strong>'+w.name+'</strong><small>'+w.zh+'</small></span><span class="scene-dot"></span>';b.onclick=()=>switchWorld(i);selector.appendChild(b)});
+addEventListener('keydown',e=>{if(/^[1-4]$/.test(e.key))switchWorld(Number(e.key)-1)});
+const initialWorld=worlds.findIndex(w=>w.id===location.hash.slice(1));if(initialWorld>0)switchWorld(initialWorld);
+
 let last=performance.now(),time=0,first=true;
 function animate(now){requestAnimationFrame(animate);let dt=Math.min((now-last)/1000,.05);last=now;if(document.hidden)return;if(motion)time+=dt;if(auto)targetAz+=dt*.1;let ease=1-Math.exp(-dt*8);az+=(targetAz-az)*ease;el+=(targetEl-el)*ease;zoom+=(targetZoom-zoom)*ease;camera.position.set(center.x+80*Math.cos(el)*Math.sin(az),center.y+80*Math.sin(el),center.z+80*Math.cos(el)*Math.cos(az));camera.lookAt(center);camera.zoom=zoom;camera.updateProjectionMatrix();
- if(motion||first){petals.forEach((p,i)=>{let y=14-((time*p.speed+p.y)%14);dummy.position.set(p.x+Math.sin(time*.36+p.phase)*1.4,y,p.z+Math.cos(time*.25+p.phase)*1.3);dummy.scale.set(p.s,.035,p.s*.75);dummy.rotation.set(time*.6+p.phase,time*.35+p.phase,time*.4);dummy.updateMatrix();petalMesh.setMatrixAt(i,dummy.matrix)});petalMesh.instanceMatrix.needsUpdate=true;
+ if(motion||first){petals.forEach((p,i)=>{let y=activeWorld===2?1.5+Math.sin(time*.4+p.phase)*.6:20-((time*p.speed*(activeWorld===3?8:1)+p.y)%20);dummy.position.set(p.x+Math.sin(time*.36+p.phase)*1.4,y,p.z+Math.cos(time*.25+p.phase)*1.3);dummy.scale.set(activeWorld===3?.025:p.s,activeWorld===3?.65:activeWorld===1?p.s:.035,activeWorld===3?.025:p.s*.75);dummy.rotation.set(activeWorld===3?0:time*.6+p.phase,activeWorld===3?0:time*.35+p.phase,activeWorld===3?-.12:time*.4);dummy.updateMatrix();petalMesh.setMatrixAt(i,dummy.matrix)});petalMesh.instanceMatrix.needsUpdate=true;
  koi.forEach(f=>{let t=time*.24+f.phase;f.g.position.x=f.cx+Math.cos(t)*1.15;f.g.position.z=f.cz+Math.sin(t)*.65;f.g.rotation.y=Math.atan2(-Math.sin(t)*1.15,Math.cos(t)*.65)});
  for(let i=0;i<24;i++){dummy.position.set(13.6+(i%7)*.27,3.4-((time*2.5+i*.31)%3.3),-6.47);dummy.scale.set(.07,.17,.08);dummy.rotation.set(0,0,0);dummy.updateMatrix();drops.setMatrixAt(i,dummy.matrix)}drops.instanceMatrix.needsUpdate=true;}
- renderer.render(scene,camera);if(first){first=false;renderer.shadowMap.autoUpdate=false;document.getElementById('loading').classList.add('done');setTimeout(()=>document.getElementById('loading').remove(),700);window.hanami={scene,camera,renderer,voxelCount,get lightMode(){return lightMode},get motion(){return motion},get auto(){return auto}};}
+ renderer.render(scene,camera);if(first){first=false;renderer.shadowMap.autoUpdate=false;document.getElementById('loading').classList.add('done');setTimeout(()=>document.getElementById('loading').remove(),700);window.hanami={scene,camera,renderer,switchWorld,worldCache,get activeWorld(){return activeWorld},get voxelCount(){return voxelCount},get lightMode(){return lightMode},get motion(){return motion},get auto(){return auto}};}
 }
 requestAnimationFrame(animate);
 } catch(error) { document.getElementById('loading').innerHTML='<p>The garden needs WebGL to bloom.</p><small>Please open in a browser with hardware acceleration.</small>';console.error(error); }

diff --git a/README.md b/README.md
@@ -1,30 +1,37 @@
-# Hanami — 花見
+# Voxel Atlas — four little worlds
 
-An interactive voxel garden built from 17,485 colorful blocks, featuring a four-tier pagoda, cherry blossoms, bamboo, an arched bridge, koi, stone lanterns, and a waterfall.
+Four handcrafted procedural voxel scenes in a single offline HTML file.
 
-![Hanami garden](preview.png)
+**[Explore the worlds](https://luckye1120.github.io/hanami-voxel-garden/)**
 
-## Open the garden
+| Scene | Details | Direct link |
+| --- | --- | --- |
+| Hanami · 樱花庭园 | Pagoda, cherry blossoms, koi pond, bamboo and stone lanterns | [Visit](https://luckye1120.github.io/hanami-voxel-garden/#hanami) |
+| Alpine · 雪山木屋 | Snow peaks, wooden chalets, frozen lake, snowman and falling snow | [Visit](https://luckye1120.github.io/hanami-voxel-garden/#alpine) |
+| Riviera · 灯塔港湾 | Striped lighthouse, pastel village, sailboats, palms and beach umbrellas | [Visit](https://luckye1120.github.io/hanami-voxel-garden/#riviera) |
+| Neon · 霓虹都市 | Neon towers, skybridge, rooftop landing pad, taxis and rain | [Visit](https://luckye1120.github.io/hanami-voxel-garden/#neon) |
 
-Open `index.html` directly in a modern browser. Everything, including Three.js, is embedded in this single file. No installation, build step, or network connection is required.
+![Voxel Atlas](preview.png)
+
+## Run
+
+Open `index.html` directly in a modern browser. All geometry, styling, JavaScript and Three.js are embedded. No installation, build step or network connection is required. Browser WebGL support is required.
 
 ## Controls
 
-- Drag to orbit; scroll or pinch to zoom.
-- Arrow keys rotate; `+` / `-` zoom.
-- **O** toggles automatic orbit.
-- **P** toggles petals and water animation.
-- **L** cycles daylight, golden hour, and moonlight.
-- **R** resets the camera.
-- **H** hides the interface.
+- Click the scene selector, or press **1–4**, to switch worlds.
+- Drag to orbit; scroll or pinch to zoom. Arrow keys rotate; `+` / `-` zoom.
+- **O** toggles automatic orbit; **P** toggles scene animation.
+- **L** cycles daylight, golden hour and moonlight.
+- **R** resets the camera; **H** hides the interface.
 - The camera button saves the current scene as a PNG.
 
-Respects reduced-motion preferences. Requires browser WebGL support.
+Worlds are generated on first use and cached. Only the selected world is rendered. Animation preferences persist across scene switches, and reduced-motion preferences are respected. Each world starts with its curated lighting; Neon opens in moonlight. Scene URLs preserve the selected world on reload.
 
-## Deployment
+## Deploy
 
-GitHub Pages serves the repository's root on the `main` branch. Updating `index.html` and pushing to `main` publishes the new version.
+GitHub Pages serves the repository root on `main`. Push an updated `index.html` to publish a new version.
 
 ## Credits
 
-Procedural geometry and styling are contained in `index.html`. The embedded Three.js r160 library is MIT-licensed; its license notice is included in the file.
+The embedded Three.js r160 library is MIT-licensed; its license notice is included in `index.html`.
